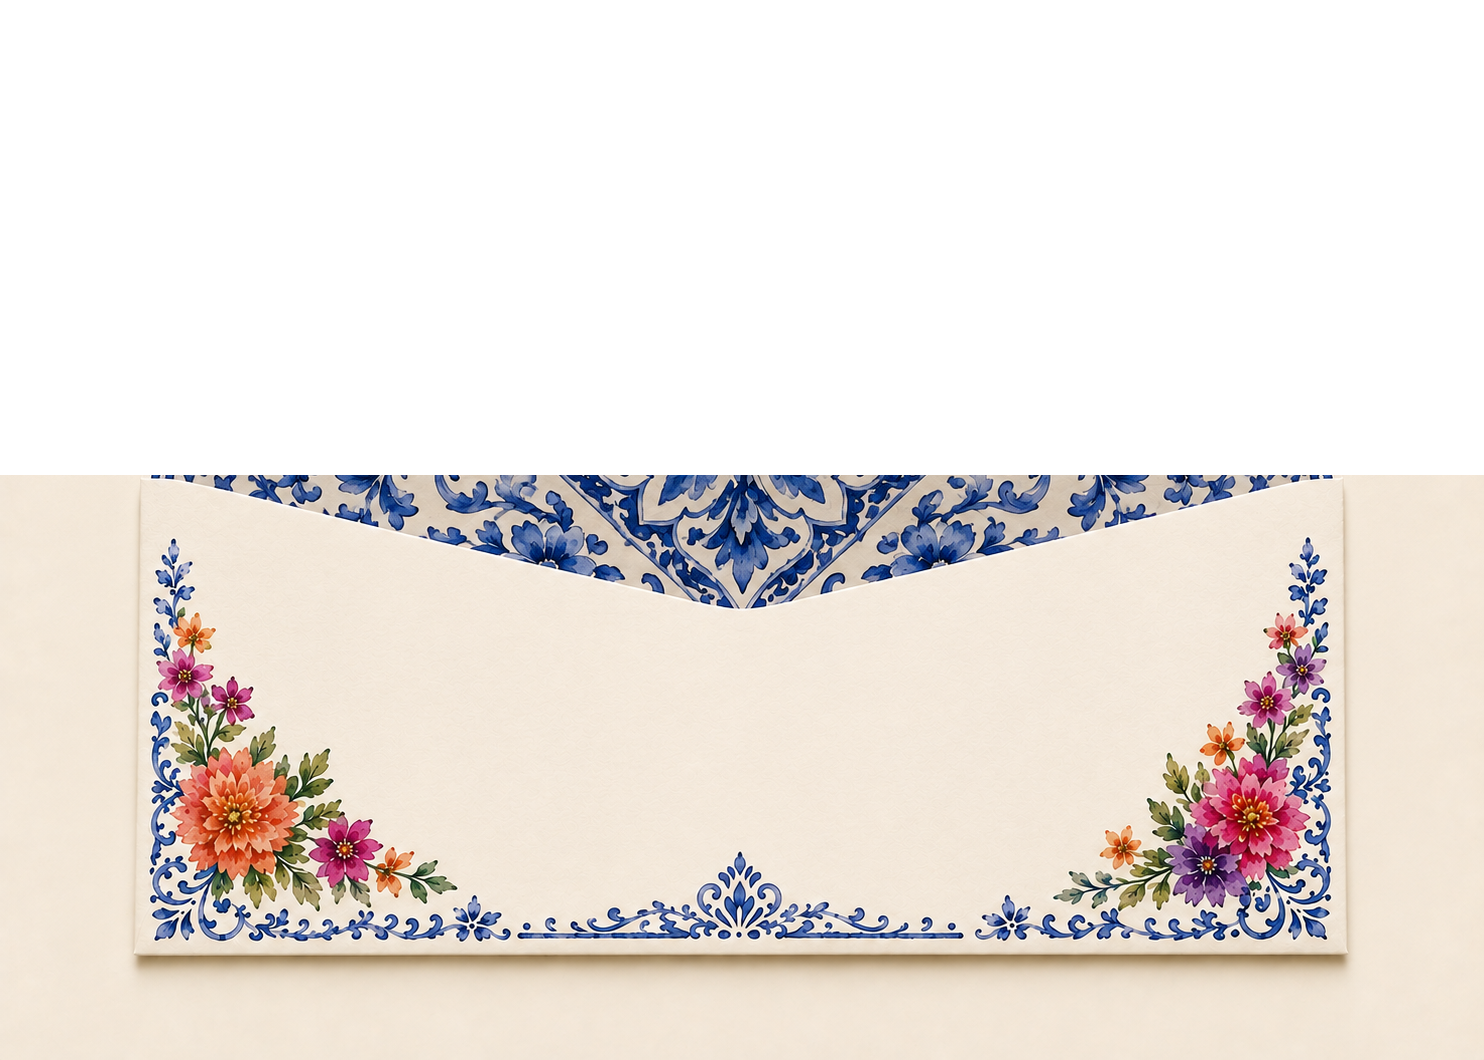
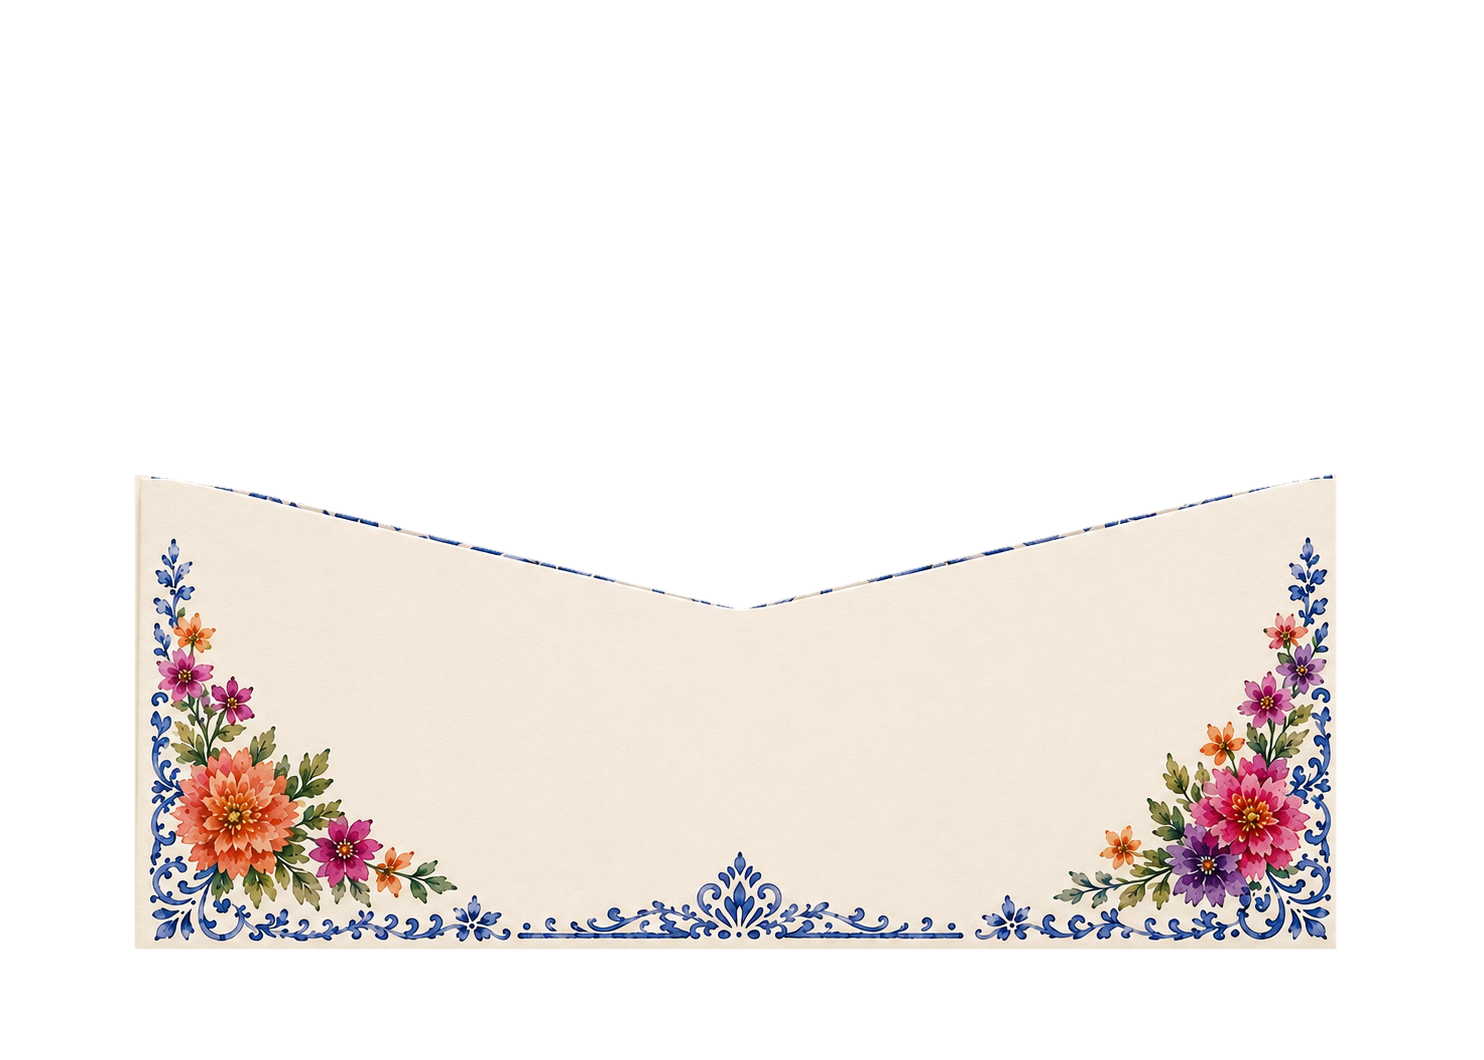
Add files via upload

Changed region(s): [[0.0, 0.4358, 1.0, 1.0]]

diff --git a/index.html b/index.html
@@ -5,115 +5,74 @@
   <meta name="viewport" content="width=device-width, initial-scale=1">
   <title>Kathryn & David — Save the Date</title>
   <style>
-    :root { --cream:#f5efe5; --navy:#123a72; --pink:#d84d86; }
+    :root { --cream:#f4efe6; --navy:#123a72; --pink:#d84d86; }
     * { box-sizing:border-box; }
     html,body { margin:0; min-height:100%; background:var(--cream); }
     body { font-family:Georgia,"Times New Roman",serif; color:var(--navy); overflow-x:hidden; }
-    .page { min-height:100vh; display:flex; flex-direction:column; align-items:center; padding:18px 12px 44px; }
-    .stage {
-      position:relative;
-      width:min(1120px,100%);
-      height:clamp(600px,76vw,900px);
-      overflow:hidden;
+    .page { min-height:100vh; display:flex; flex-direction:column; align-items:center; padding:14px 10px 40px; }
+    .stage { position:relative; width:min(980px,100%); height:clamp(650px,82vw,830px); }
+    .env-wrap { position:absolute; left:50%; top:6px; width:min(900px,96vw); aspect-ratio:1484/1060; transform:translateX(-50%); perspective:1800px; filter:drop-shadow(0 14px 20px rgba(70,48,28,.18)); }
+    .layer { position:absolute; inset:0; width:100%; height:100%; object-fit:contain; pointer-events:none; }
+    .liner { z-index:1; }
+    .card { z-index:2; left:50%; top:48%; width:36%; height:auto; inset:auto; transform:translate(-50%,22%) scale(.78); opacity:0; transform-origin:center center; filter:drop-shadow(0 12px 18px rgba(35,25,15,.25)); }
+    .pocket { z-index:3; }
+    .flap { z-index:4; transform-origin:50% 66.5%; backface-visibility:hidden; transform-style:preserve-3d; }
+    .seal { z-index:5; inset:auto; left:50%; top:56%; width:15.5%; height:auto; transform:translate(-50%,-50%); filter:drop-shadow(0 5px 6px rgba(45,24,5,.32)); }
+    .env-wrap.play .seal { animation:sealRelease .85s cubic-bezier(.2,.7,.2,1) .55s forwards; }
+    .env-wrap.play .flap { animation:flapOpen 1.05s cubic-bezier(.25,.7,.2,1) 1.2s forwards; }
+    .env-wrap.play .card { animation:cardPeek .65s ease 2.05s forwards, cardRise 1.45s cubic-bezier(.18,.75,.15,1) 2.62s forwards, cardSettle .35s ease 4.07s forwards, cardFade .35s ease 4.75s forwards; }
+    .env-wrap.play .liner,.env-wrap.play .pocket { animation:envelopeAway .65s ease 4.45s forwards; }
+    @keyframes sealRelease {
+      0% { transform:translate(-50%,-50%) scale(1); opacity:1; }
+      25% { transform:translate(-50%,-50%) scale(1.08); }
+      100% { transform:translate(-50%,125%) rotate(20deg) scale(.72); opacity:0; }
     }
-    .asset { position:absolute; left:50%; user-select:none; -webkit-user-drag:none; }
-    .envelope {
-      width:min(1000px,96vw);
-      top:55%;
-      transform:translate(-50%,-50%);
-      filter:drop-shadow(0 16px 20px rgba(70,48,27,.18));
+    @keyframes flapOpen {
+      0% { transform:rotateX(0deg); opacity:1; }
+      72% { transform:rotateX(150deg); opacity:1; }
+      100% { transform:rotateX(178deg); opacity:0; }
     }
-    #closedEnvelope { z-index:5; opacity:1; animation:closedAway .45s ease 1.05s forwards; }
-    #openBack { z-index:1; opacity:0; animation:openIn .5s ease 1.08s forwards, envelopeAway .65s ease 4.55s forwards; }
-    #cardAnim {
-      z-index:2;
-      width:min(410px,40vw);
-      top:57%;
-      transform:translate(-50%,10%) scale(.82);
-      opacity:0;
-      filter:drop-shadow(0 14px 20px rgba(52,35,18,.24));
-      animation:peek .8s cubic-bezier(.2,.72,.22,1) 1.55s forwards,
-                rise 1.55s cubic-bezier(.16,.78,.16,1) 2.35s forwards,
-                settle .35s ease 3.9s forwards,
-                cardOut .35s ease 4.9s forwards;
+    @keyframes cardPeek {
+      from { opacity:0; transform:translate(-50%,22%) scale(.78); }
+      to { opacity:1; transform:translate(-50%,2%) scale(.78); }
     }
-    #pocket { z-index:3; opacity:0; animation:openIn .5s ease 1.08s forwards, envelopeAway .65s ease 4.55s forwards; }
-    #seal {
-      z-index:7;
-      width:min(138px,13vw);
-      top:55%;
-      transform:translate(-50%,13%);
-      filter:drop-shadow(0 7px 8px rgba(49,28,8,.32));
-      opacity:0;
-      animation:sealAppear .12s linear .72s forwards,
-                sealDrop .72s cubic-bezier(.34,.03,.68,.95) .82s forwards;
+    @keyframes cardRise {
+      to { opacity:1; transform:translate(-50%,-61%) scale(1.48); }
     }
-    .clickable {
-      width:min(620px,96vw);
-      display:none;
-      opacity:0;
-      background:#fff;
-      box-shadow:0 18px 34px rgba(68,48,25,.18);
+    @keyframes cardSettle {
+      0% { transform:translate(-50%,-61%) scale(1.48); }
+      60% { transform:translate(-50%,-64%) scale(1.51); }
+      100% { transform:translate(-50%,-62.5%) scale(1.49); }
     }
-    .clickable.show { display:block; animation:finalIn .45s ease forwards; }
+    @keyframes envelopeAway { to { opacity:0; transform:translateY(12px) scale(.985); } }
+    @keyframes cardFade { to { opacity:0; } }
+    .clickable { width:min(600px,96vw); opacity:0; display:none; background:#fff; box-shadow:0 16px 30px rgba(68,48,25,.18); }
+    .clickable.show { display:block; animation:finalReveal .45s ease forwards; }
     .clickable img { display:block; width:100%; height:auto; border:0; }
     .footer-row { display:flex; width:100%; }
     .footer-row>* { display:block; }
-    .replay {
-      margin-top:22px; border:1px solid rgba(18,58,114,.22); background:#fffaf2;
-      color:var(--pink); padding:10px 18px; border-radius:999px;
-      font:600 16px Georgia,serif; cursor:pointer; box-shadow:0 5px 14px rgba(69,47,25,.08);
+    @keyframes finalReveal { from{opacity:0;transform:translateY(6px)} to{opacity:1;transform:translateY(0)} }
+    .replay { margin-top:20px; border:1px solid rgba(18,58,114,.24); background:#fffaf2; color:var(--pink); padding:10px 18px; border-radius:999px; font:600 16px Georgia,serif; cursor:pointer; box-shadow:0 5px 14px rgba(69,47,25,.08); }
+    .email-note { text-align:center; font-size:14px; margin-top:10px; opacity:.72; }
+    @media(max-width:700px){
+      .stage{height:650px;}
+      .env-wrap{width:108vw;left:50%;top:26px;}
+      .card{width:38%;top:48%;}
+      .seal{width:14%;top:56%;}
     }
-    .replay:hover { transform:translateY(-1px); }
-    .email-note { text-align:center; font-size:14px; margin-top:11px; opacity:.72; }
-
-    @keyframes sealAppear { to { opacity:1; } }
-    @keyframes sealDrop {
-      0% { opacity:1; transform:translate(-50%,13%) rotate(0) scale(1); }
-      24% { transform:translate(-50%,5%) rotate(-4deg) scale(1.04); }
-      100% { opacity:0; transform:translate(-43%,180%) rotate(28deg) scale(.72); }
-    }
-    @keyframes closedAway { to { opacity:0; } }
-    @keyframes openIn { to { opacity:1; } }
-    @keyframes peek {
-      from { opacity:0; transform:translate(-50%,10%) scale(.82); }
-      to   { opacity:1; transform:translate(-50%,-7%) scale(.82); }
-    }
-    @keyframes rise { to { transform:translate(-50%,-57%) scale(.96); } }
-    @keyframes settle {
-      0% { transform:translate(-50%,-57%) scale(.96); }
-      55% { transform:translate(-50%,-60%) scale(.975); }
-      100% { transform:translate(-50%,-58.5%) scale(.97); }
-    }
-    @keyframes envelopeAway { to { opacity:0; transform:translate(-50%,-47%) scale(.985); } }
-    @keyframes cardOut { to { opacity:0; } }
-    @keyframes finalIn { from { opacity:0; transform:translateY(10px); } to { opacity:1; transform:none; } }
-
-    @media (max-width:700px) {
-      .stage { height:620px; }
-      .envelope { width:108vw; top:51%; }
-      #cardAnim { width:45vw; top:53%; }
-      #seal { width:16vw; top:51%; }
-    }
-    @media (max-width:430px) {
-      .stage { height:560px; }
-      .envelope { width:116vw; }
-      #cardAnim { width:49vw; }
-    }
-    @media (prefers-reduced-motion:reduce) {
-      .stage { display:none; }
-      .clickable { display:block; opacity:1; }
-    }
+    @media(prefers-reduced-motion:reduce){ .stage{display:none}.clickable{display:block;opacity:1} }
   </style>
 </head>
 <body>
 <main class="page">
   <section class="stage" id="stage" aria-label="Animated envelope opening">
-    <img id="openBack" class="asset envelope" src="envelope-open.png" alt="Open decorated wedding envelope">
-    <img id="cardAnim" class="asset" src="invitation-exact.png" alt="Kathryn and David Save the Date">
-    <img id="pocket" class="asset envelope" src="envelope-pocket.png" alt="">
-    <img id="closedEnvelope" class="asset envelope" src="envelope-closed.png" alt="Closed decorated wedding envelope">
-    <img id="seal" class="asset" src="seal.png" alt="">
+    <div class="env-wrap play" id="envWrap">
+      <img class="layer liner" src="envelope-open.png" alt="Open envelope liner">
+      <img class="layer card" src="invitation-exact.png" alt="Kathryn and David Save the Date">
+      <img class="layer pocket" src="envelope-pocket.png" alt="Envelope front pocket">
+      <img class="layer flap" src="envelope-flap.png" alt="Envelope flap">
+      <img class="layer seal" src="wax-seal.png" alt="K and D wax seal">
+    </div>
   </section>
 
   <section class="clickable" id="clickableInvitation" aria-label="Interactive save the date">
@@ -136,33 +95,21 @@
   <div class="email-note">Use <strong>envelope-closed.png</strong> as the clickable image in Gmail.</div>
 </main>
 <script>
-  let stage = document.getElementById('stage');
-  const finalInvite = document.getElementById('clickableInvitation');
-  const replay = document.getElementById('replay');
+  const stage=document.getElementById('stage');
+  const envWrap=document.getElementById('envWrap');
+  const finalInvite=document.getElementById('clickableInvitation');
+  const replay=document.getElementById('replay');
   let timer;
-
-  function revealFinal(activeStage = stage) {
-    activeStage.style.display = 'none';
-    finalInvite.style.display = '';
-    finalInvite.classList.add('show');
-    window.scrollTo({top:0, behavior:'smooth'});
-  }
-  function startTimer(activeStage = stage) {
-    timer = setTimeout(() => revealFinal(activeStage), 5350);
-  }
-  startTimer();
-
-  replay.addEventListener('click', () => {
+  function revealFinal(){ stage.style.display='none'; finalInvite.classList.add('show'); window.scrollTo({top:0,behavior:'smooth'}); }
+  function start(){
     clearTimeout(timer);
-    finalInvite.classList.remove('show');
-    finalInvite.style.display = 'none';
-    const replacement = stage.cloneNode(true);
-    replacement.style.display = 'block';
-    stage.replaceWith(replacement);
-    stage = replacement;
-    window.scrollTo({top:0, behavior:'smooth'});
-    startTimer(replacement);
-  });
+    finalInvite.classList.remove('show'); finalInvite.style.display='none';
+    stage.style.display='block';
+    envWrap.classList.remove('play'); void envWrap.offsetWidth; envWrap.classList.add('play');
+    timer=setTimeout(()=>{finalInvite.style.display=''; revealFinal();},5050);
+  }
+  replay.addEventListener('click',start);
+  timer=setTimeout(()=>{finalInvite.style.display=''; revealFinal();},5050);
 </script>
 </body>
 </html>
